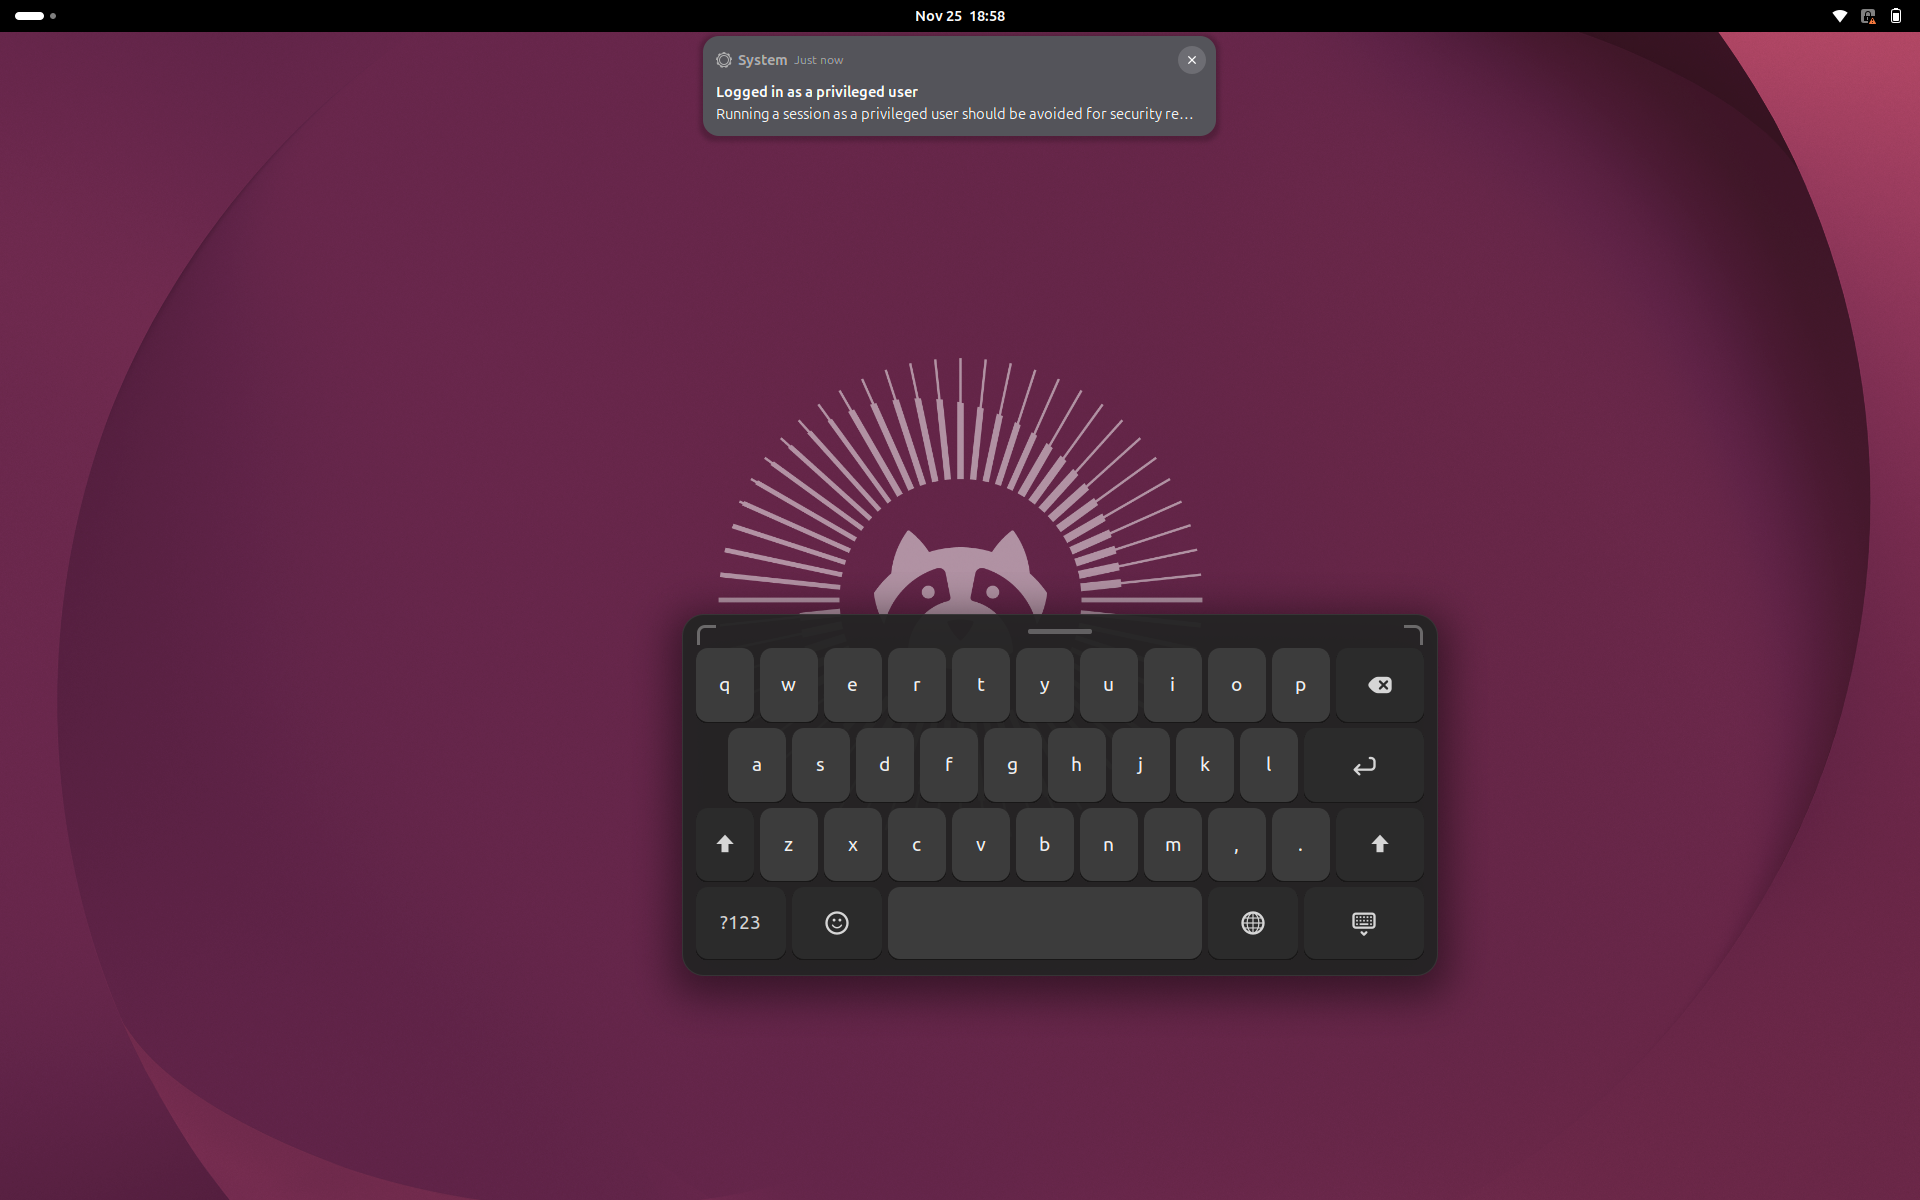
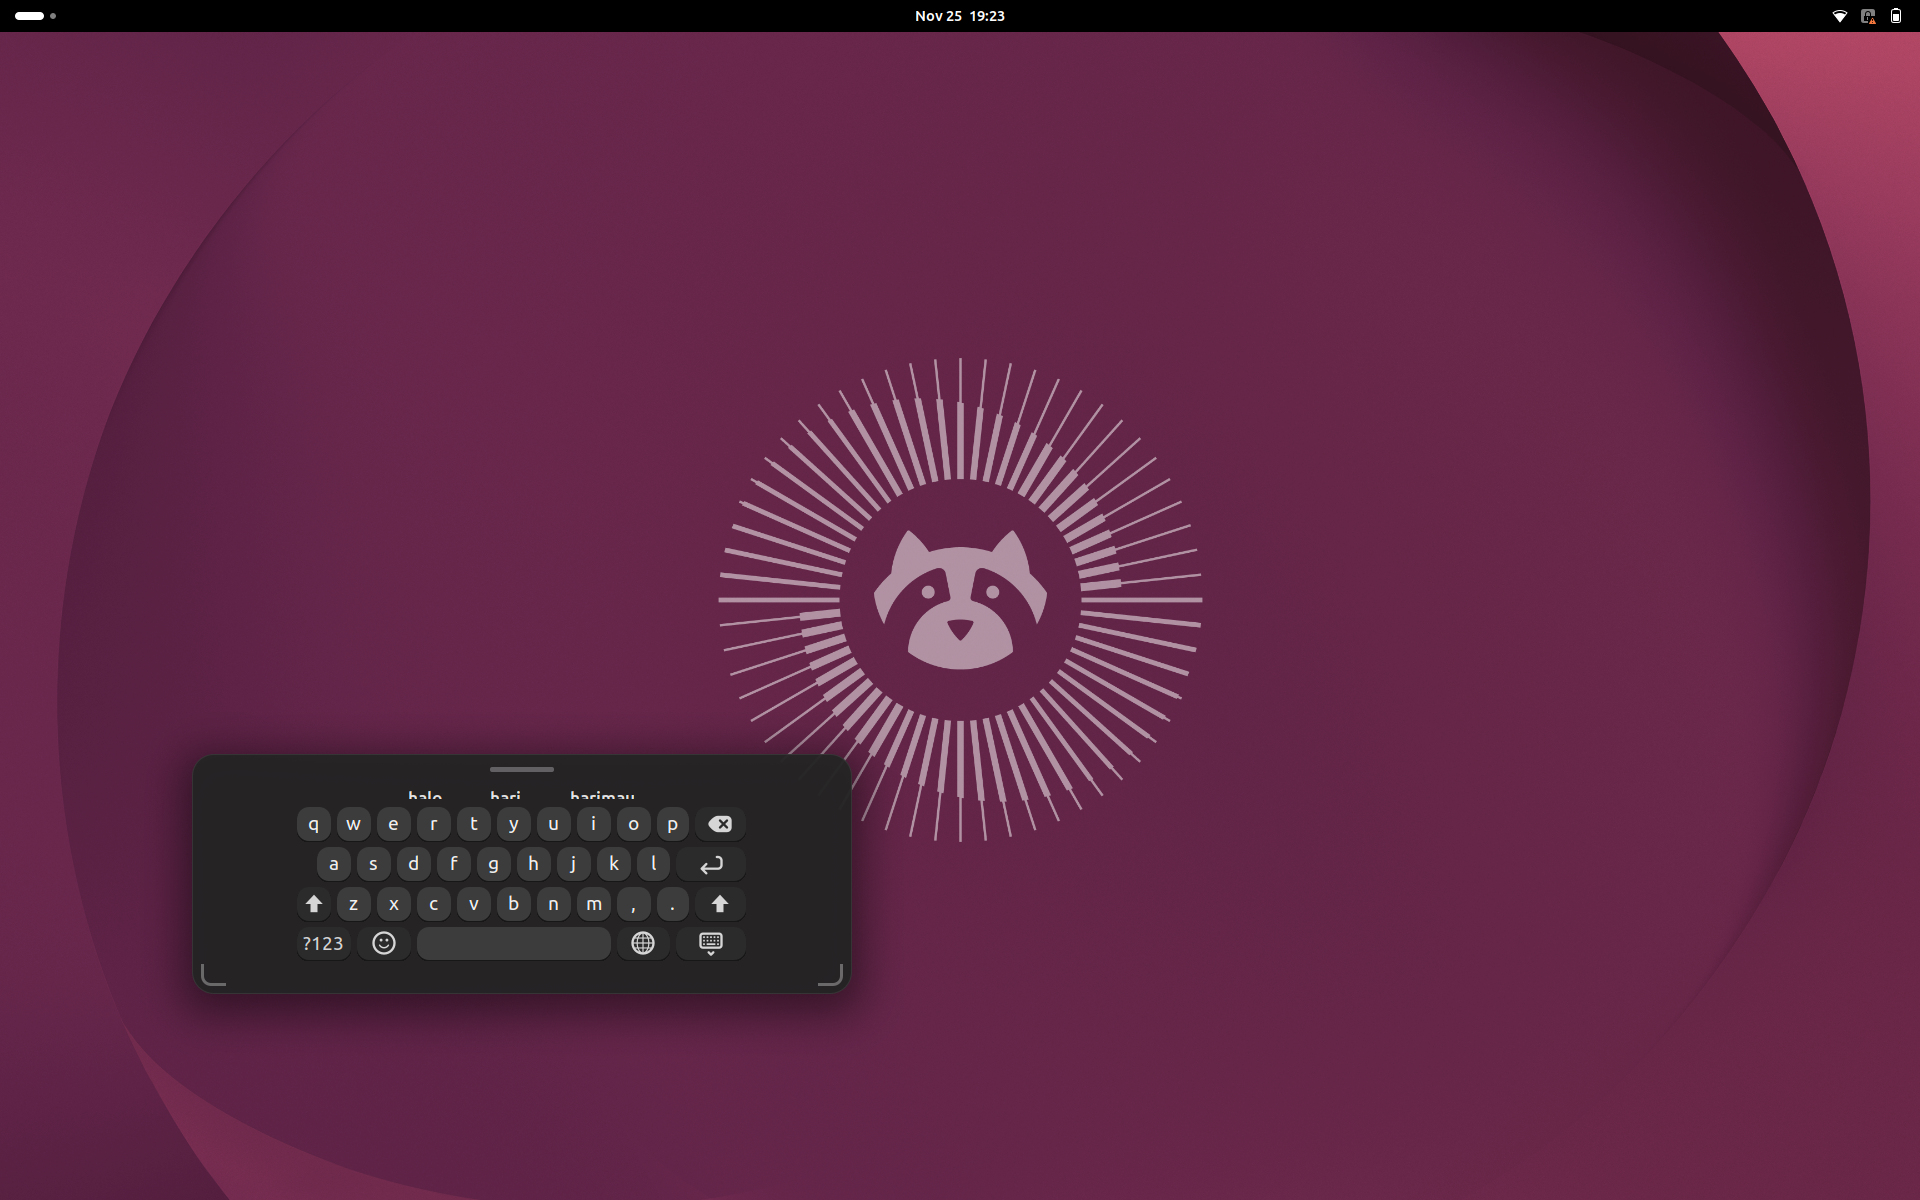
Keep OSK at the chosen size; resize from bottom corners
- The keyboard grew to full screen width on relayout (e.g. while typing):
  x_expand children made the keyboard expand inside keyboardBox. Force
  x_expand=false / x_align=START on the floating keyboard.
- Drag/resize now tracks its touch slot at stage level until release, so a
  lost release can't turn the next key tap into a resize.
- Resize grips moved to the bottom-left/right corners.

Changed region(s): [[0.0938, 0.4933, 0.7812, 0.8633], [0.3438, 0.0, 0.6562, 0.1233]]

diff --git a/touch-feedback@yandi/osk.js b/touch-feedback@yandi/osk.js
@@ -28,40 +28,54 @@ function saveState(state) {
     }
 }
 
-// Ikuti satu sentuhan/klik dari actor sampai dilepas. Sengaja tanpa
-// global.stage.grab(): grab bikin aplikasi kehilangan fokus ketik, lalu GNOME
-// langsung nurunin keyboard. Clutter sudah kasih implicit grab untuk
-// sentuhan & tombol mouse, jadi event lanjutan tetap ke actor ini.
+// Ikuti satu sentuhan/klik yang dimulai di actor sampai jari/tombol dilepas.
+// Gerakan & lepasnya dibaca di level stage (bukan dari actor), karena jari
+// sering keluar dari pegangan yang kecil; kalau "lepas" nggak ketangkep,
+// sentuhan berikutnya (nomor slot sering sama) bakal dikira masih resize.
+// Sengaja tanpa global.stage.grab(): grab bikin aplikasi kehilangan fokus
+// ketik, lalu GNOME langsung nurunin keyboard.
 function attachDrag(actor, {start, move, end}) {
-    let origin = null;
-    let seq = null;
+    const T = Clutter.EventType;
+    let drag = null; // {slot, x, y, stageId}
+
+    const finish = () => {
+        if (!drag)
+            return;
+        global.stage.disconnect(drag.stageId);
+        drag = null;
+        end();
+    };
+
     actor.connect('event', (_a, event) => {
-        const T = Clutter.EventType;
         const type = event.type();
-        const isTouch = type === T.TOUCH_BEGIN || type === T.TOUCH_UPDATE ||
-            type === T.TOUCH_END || type === T.TOUCH_CANCEL;
-        const slot = isTouch ? event.get_event_sequence()?.get_slot() ?? 0 : -1;
+        if (type !== T.TOUCH_BEGIN && type !== T.BUTTON_PRESS)
+            return Clutter.EVENT_PROPAGATE;
+        finish();
+        const touch = type === T.TOUCH_BEGIN;
+        const slot = touch ? event.get_event_sequence()?.get_slot() ?? 0 : null;
         const [x, y] = event.get_coords();
-        if (!origin && (type === T.TOUCH_BEGIN || type === T.BUTTON_PRESS)) {
-            origin = [x, y];
-            seq = slot;
-            start();
+        const stageId = global.stage.connect('captured-event', (_s, ev) => {
+            const t = ev.type();
+            const evTouch = t === T.TOUCH_UPDATE || t === T.TOUCH_END || t === T.TOUCH_CANCEL;
+            if (touch) {
+                if (!evTouch || (ev.get_event_sequence()?.get_slot() ?? 0) !== slot)
+                    return Clutter.EVENT_PROPAGATE;
+            } else if (t !== T.MOTION && t !== T.BUTTON_RELEASE) {
+                return Clutter.EVENT_PROPAGATE;
+            }
+            if (t === T.TOUCH_UPDATE || t === T.MOTION) {
+                const [cx, cy] = ev.get_coords();
+                move(cx - drag.x, cy - drag.y);
+            } else {
+                finish();
+            }
             return Clutter.EVENT_STOP;
-        }
-        if (!origin || (isTouch && slot !== seq))
-            return origin ? Clutter.EVENT_STOP : Clutter.EVENT_PROPAGATE;
-        if (type === T.TOUCH_UPDATE || type === T.MOTION) {
-            move(x - origin[0], y - origin[1]);
-            return Clutter.EVENT_STOP;
-        }
-        if (type === T.TOUCH_END || type === T.TOUCH_CANCEL || type === T.BUTTON_RELEASE) {
-            origin = null;
-            seq = null;
-            end();
-            return Clutter.EVENT_STOP;
-        }
-        return Clutter.EVENT_PROPAGATE;
+        });
+        drag = {slot, x, y, stageId};
+        start();
+        return Clutter.EVENT_STOP;
     });
+    actor.connect('destroy', finish);
 }
 
 // Keyboard layar GNOME dibikin mengambang: bisa digeser dari bar atas,
@@ -148,8 +162,10 @@ export class FloatingKeyboard {
         const kb = Main.keyboard.keyboardActor;
         if (kb) {
             kb._tfHeader?.destroy();
-            kb._tfHeader = null;
+            kb._tfFooter?.destroy();
+            kb._tfHeader = kb._tfFooter = null;
             kb.remove_style_class_name('tf-floating');
+            kb.x_align = Clutter.ActorAlign.FILL;
             kb.translation_x = 0;
             kb._relayout();
             if (kb._keyboardVisible)
@@ -198,9 +214,14 @@ export class FloatingKeyboard {
         if (kb._tfHeader)
             return;
         kb.add_style_class_name('tf-floating');
+        // Anak yang x_expand bikin keyboard ikut "expand" lalu ditarik selebar
+        // keyboardBox (selebar layar) tiap relayout, mis. waktu ngetik.
+        // Set eksplisit supaya ukuran pilihan user yang dipakai.
+        kb.x_expand = false;
+        kb.y_expand = false;
+        kb.x_align = Clutter.ActorAlign.START;
 
         const header = new St.BoxLayout({style_class: 'tf-osk-header', x_expand: true, reactive: true});
-        const gripL = new St.Widget({style_class: 'tf-osk-grip tf-osk-grip-left', reactive: true, track_hover: true});
         const handle = new St.Widget({
             style_class: 'tf-osk-handle-area', reactive: true, track_hover: true, x_expand: true,
             layout_manager: new Clutter.BinLayout(),
@@ -210,12 +231,20 @@ export class FloatingKeyboard {
             x_align: Clutter.ActorAlign.CENTER,
             y_align: Clutter.ActorAlign.CENTER,
         }));
-        const gripR = new St.Widget({style_class: 'tf-osk-grip tf-osk-grip-right', reactive: true, track_hover: true});
-        header.add_child(gripL);
         header.add_child(handle);
-        header.add_child(gripR);
         kb.insert_child_at_index(header, 0);
+
+        // Pojok bawah kiri/kanan buat resize.
+        const footer = new St.BoxLayout({style_class: 'tf-osk-footer', x_expand: true});
+        const gripL = new St.Widget({style_class: 'tf-osk-grip tf-osk-grip-left', reactive: true, track_hover: true});
+        const gripR = new St.Widget({style_class: 'tf-osk-grip tf-osk-grip-right', reactive: true, track_hover: true});
+        footer.add_child(gripL);
+        footer.add_child(new St.Widget({x_expand: true}));
+        footer.add_child(gripR);
+        kb.add_child(footer);
+
         kb._tfHeader = header;
+        kb._tfFooter = footer;
 
         let start = null;
         const begin = actor => () => {
@@ -234,17 +263,27 @@ export class FloatingKeyboard {
             move: (dx, dy) => this._update({x: start.x + dx, bottom: start.bottom - dy}, kb),
             end: done(handle),
         });
+        // Tarik pojok bawah: tepi atas tetap, tepi bawah ikut jari.
+        const resizeBottom = dy => {
+            let h = Math.max(OSK.minHeight, start.h + dy);
+            let bottom = start.bottom - (h - start.h);
+            if (bottom < 0) {
+                h += bottom;
+                bottom = 0;
+            }
+            return {h, bottom};
+        };
         attachDrag(gripL, {
             start: begin(gripL),
             move: (dx, dy) => {
                 const w = Math.max(OSK.minWidth, start.w - dx);
-                this._update({w, x: start.x + start.w - w, h: start.h - dy}, kb);
+                this._update({w, x: start.x + start.w - w, ...resizeBottom(dy)}, kb);
             },
             end: done(gripL),
         });
         attachDrag(gripR, {
             start: begin(gripR),
-            move: (dx, dy) => this._update({w: start.w + dx, h: start.h - dy}, kb),
+            move: (dx, dy) => this._update({w: Math.max(OSK.minWidth, start.w + dx), ...resizeBottom(dy)}, kb),
             end: done(gripR),
         });
     }

diff --git a/touch-feedback@yandi/stylesheet.css b/touch-feedback@yandi/stylesheet.css
@@ -4,7 +4,7 @@
     background-color: rgba(36, 36, 36, 0.94);
     border: 1px solid rgba(255, 255, 255, 0.08);
     border-radius: 22px;
-    padding: 4px 10px 12px 10px;
+    padding: 4px 8px 6px 8px;
     box-shadow: 0 10px 34px 0 rgba(0, 0, 0, 0.45);
     font-family: "Ubuntu Sans", "Ubuntu", sans-serif;
 }
@@ -50,16 +50,14 @@
 }
 #keyboard.tf-floating .keyboard-key StIcon { icon-size: 1.45em; }
 
-#keyboard.tf-floating .word-suggestions { color: #e6e6e6; padding: 0 12px; min-height: 0; spacing: 6px; }
+#keyboard.tf-floating .word-suggestions { color: #e6e6e6; padding: 2px 12px 4px 12px; min-height: 0; spacing: 6px; }
 #keyboard.tf-floating .word-suggestions StButton { border-radius: 10px; }
 
 .keyboard-subkeys-boxpointer { -arrow-background-color: #2b2b2b; -arrow-border-color: rgba(255, 255, 255, 0.08); }
 
-/* Bar atas: pegangan geser + pojok resize */
-.tf-osk-header {
-    height: 26px;
-}
-.tf-osk-handle-area { min-height: 26px; }
+/* Bar atas: pegangan geser */
+.tf-osk-header { height: 22px; }
+.tf-osk-handle-area { min-height: 22px; }
 .tf-osk-handle {
     width: 64px;
     height: 5px;
@@ -69,15 +67,16 @@
 .tf-osk-handle-area:hover .tf-osk-handle { background-color: rgba(255, 255, 255, 0.45); }
 .tf-osk-handle-area:active .tf-osk-handle { background-color: #E95420; }
 
+/* Pojok bawah kiri/kanan: resize */
+.tf-osk-footer { height: 22px; margin-top: 2px; }
 .tf-osk-grip {
-    width: 16px;
-    height: 16px;
-    margin-top: 6px;
+    width: 22px;
+    height: 22px;
     border-color: rgba(255, 255, 255, 0.32);
-    border-top-width: 3px;
+    border-bottom-width: 3px;
     border-style: solid;
 }
-.tf-osk-grip-left  { border-left-width: 3px;  border-radius: 8px 0 0 0; margin-left: 4px; }
-.tf-osk-grip-right { border-right-width: 3px; border-radius: 0 8px 0 0; margin-right: 4px; }
+.tf-osk-grip-left  { border-left-width: 3px;  border-radius: 0 0 0 10px; }
+.tf-osk-grip-right { border-right-width: 3px; border-radius: 0 0 10px 0; }
 .tf-osk-grip:hover { border-color: rgba(255, 255, 255, 0.55); }
 .tf-osk-grip:active { border-color: #E95420; }

diff --git a/README.md b/README.md
@@ -9,7 +9,7 @@ Extension GNOME Shell (48–50, Wayland) buat laptop layar sentuh, biar rasanya 
   - bagian **kiri / kanan** → keyboard layar naik ngikutin jari
 - **Keyboard layar mengambang** bertema Ubuntu modern (Yaru gelap + aksen oranye):
   - geser lewat bar di atas keyboard
-  - resize lewat pojok kiri atas / kanan atas
+  - resize lewat pojok kiri bawah / kanan bawah
   - posisi & ukuran disimpan di `~/.config/touch-feedback/keyboard.json`
 
 Keyboard-nya tetap keyboard bawaan GNOME (layout, emoji, dan saran kata tetap jalan). Extension ini cuma
